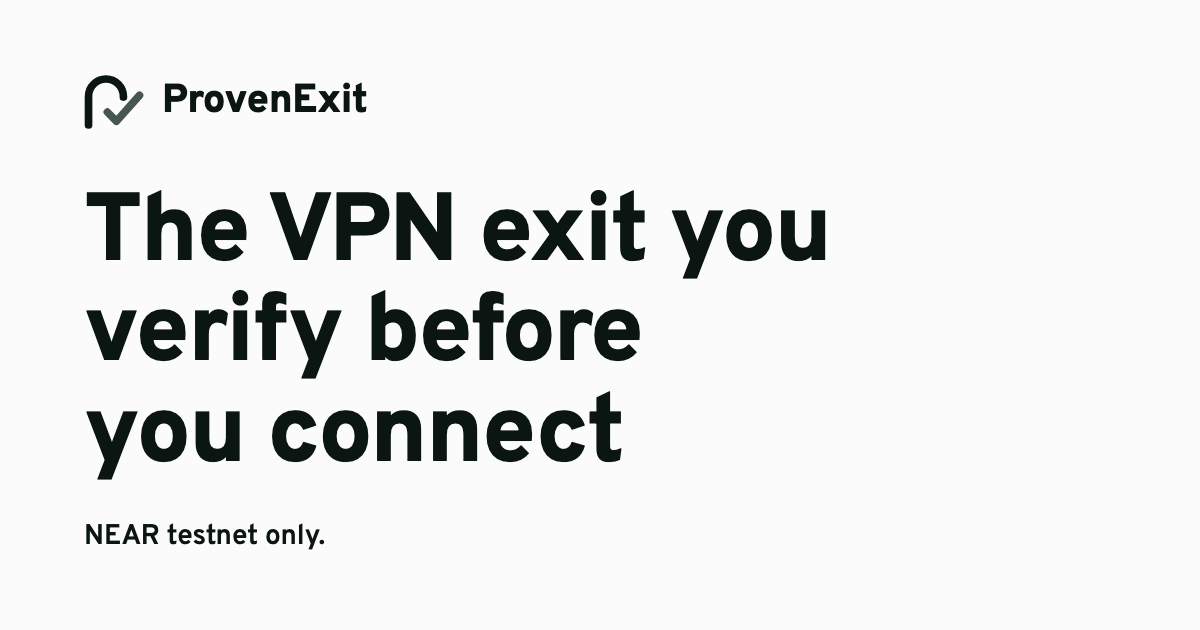
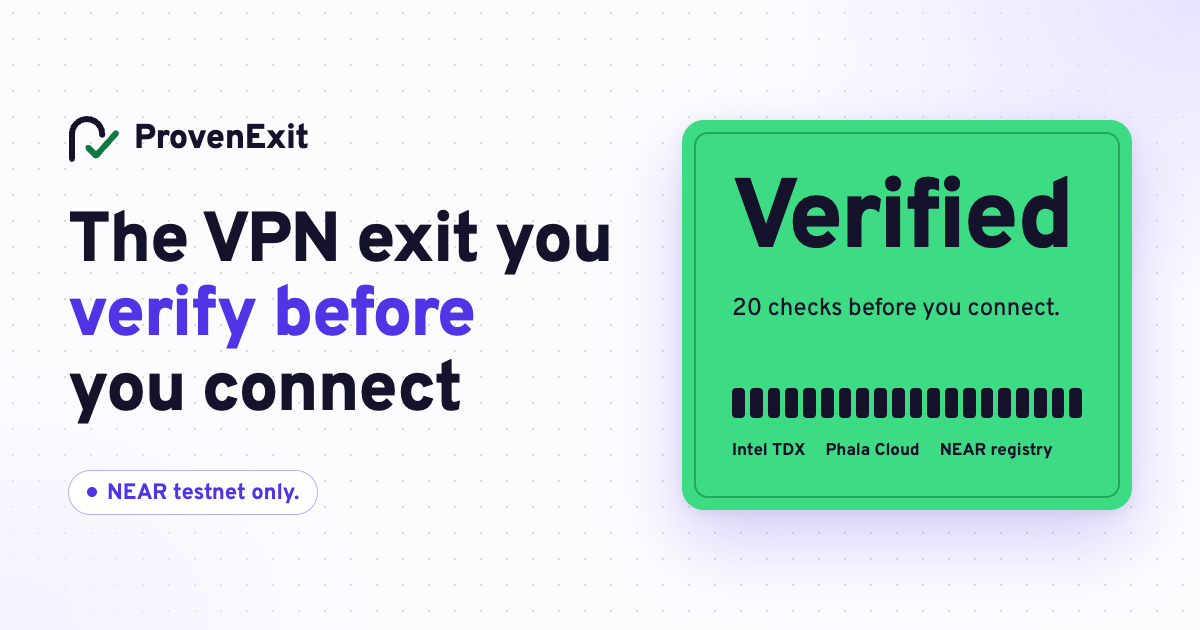
Site: share image in the site's light style, absolute og:image, twitter card

diff --git a/scripts/share-image.html b/scripts/share-image.html
@@ -1,0 +1,47 @@
+<!doctype html>
+<!-- Source of site/assets/share.png (the og:image, 1200x630). Render from the repo root:
+  "/Applications/Google Chrome.app/Contents/MacOS/Google Chrome" --headless=new --hide-scrollbars \
+    --window-size=1200,630 --screenshot=site/assets/share.png "file://$PWD/scripts/share-image.html" -->
+<meta charset="utf-8">
+<style>
+@font-face { font-family: "Overpass"; src: url("../site/assets/fonts/overpass.woff2") format("woff2"); font-weight: 100 900; }
+@font-face { font-family: "Overpass Mono"; src: url("../site/assets/fonts/overpass-mono.woff2") format("woff2"); font-weight: 300 700; }
+* { margin: 0; box-sizing: border-box; }
+html, body { width: 1200px; height: 630px; overflow: hidden; }
+body {
+  font-family: "Overpass", sans-serif; color: #14132B; background: #FCFCFF;
+  background-image:
+    radial-gradient(620px 420px at 100% 0%, #E7E3FF 0%, rgb(231 227 255 / 0) 70%),
+    radial-gradient(520px 380px at 0% 100%, #F3F1FF 0%, rgb(243 241 255 / 0) 70%),
+    radial-gradient(#DCDAEA 1.2px, transparent 1.2px);
+  background-size: auto, auto, 26px 26px;
+  display: grid; grid-template-columns: 1fr 450px; gap: 40px; padding: 64px 68px; align-items: center;
+}
+.brand { display: flex; align-items: center; gap: 14px; font-weight: 800; font-size: 34px; letter-spacing: -.01em; }
+.brand svg { width: 52px; height: 48px; fill: none; stroke-width: 40; stroke-linecap: round; stroke-linejoin: round; }
+h1 { font-weight: 800; font-size: 70px; line-height: 1.06; letter-spacing: -.02em; margin-top: 44px; }
+h1 em { font-style: normal; color: #5034E6; }
+.pill { display: inline-flex; align-items: center; gap: 10px; margin-top: 40px; padding: 9px 18px 7px; border: 1.5px solid #B9AFFF; border-radius: 99px; background: #fff; color: #5034E6; font-weight: 700; font-size: 22px; }
+.pill i { width: 10px; height: 10px; border-radius: 50%; background: #5034E6; margin-top: -3px; }
+.plate { background: #3DDC84; border-radius: 22px; padding: 12px; box-shadow: 0 30px 70px rgb(80 52 230 / .22), 0 4px 14px rgb(20 19 43 / .08); }
+.plate > div { border: 2px solid rgb(14 122 64 / .55); border-radius: 14px; padding: 40px 36px 34px; }
+.word { font-weight: 800; font-size: 98px; line-height: 1; letter-spacing: -.03em; }
+.line { font-size: 24px; white-space: nowrap; margin-top: 22px; }
+.ticks { display: grid; grid-template-columns: repeat(20, 1fr); gap: 5px; margin-top: 64px; }
+.ticks i { height: 30px; border-radius: 4px; background: #14132B; }
+.foot { display: flex; gap: 20px; margin-top: 22px; font-weight: 700; font-size: 17px; white-space: nowrap; }
+</style>
+<div>
+  <div class="brand">
+    <svg viewBox="84 98 344 316"><path stroke="#14132B" d="M110 388V224a100 100 0 0 1 200 0v4"/><path stroke="#0E7A40" d="M218 314l52 52L402 218"/></svg>
+    ProvenExit
+  </div>
+  <h1>The VPN exit you<br><em>verify before</em><br>you connect</h1>
+  <p class="pill"><i></i>NEAR testnet only.</p>
+</div>
+<div class="plate"><div>
+  <p class="word">Verified</p>
+  <p class="line">20 checks before you connect.</p>
+  <div class="ticks"><i></i><i></i><i></i><i></i><i></i><i></i><i></i><i></i><i></i><i></i><i></i><i></i><i></i><i></i><i></i><i></i><i></i><i></i><i></i><i></i></div>
+  <p class="foot"><span>Intel TDX</span><span>Phala Cloud</span><span>NEAR registry</span></p>
+</div></div>

diff --git a/site/index.html b/site/index.html
@@ -11,7 +11,11 @@
 <meta property="og:title" content="ProvenExit">
 <meta property="og:description" content="The VPN exit you verify before you connect. NEAR testnet only.">
 <meta property="og:type" content="website">
-<meta property="og:image" content="/assets/share.png">
+<meta property="og:image" content="https://provenexit.vercel.app/assets/share.png">
+<meta property="og:image:width" content="1200">
+<meta property="og:image:height" content="630">
+<meta property="og:url" content="https://provenexit.vercel.app/">
+<meta name="twitter:card" content="summary_large_image">
 <link rel="icon" href="/assets/favicon.svg" type="image/svg+xml">
 <link rel="preload" href="/assets/fonts/overpass.woff2" as="font" type="font/woff2" crossorigin>
 <link rel="stylesheet" href="/assets/styles.css">
